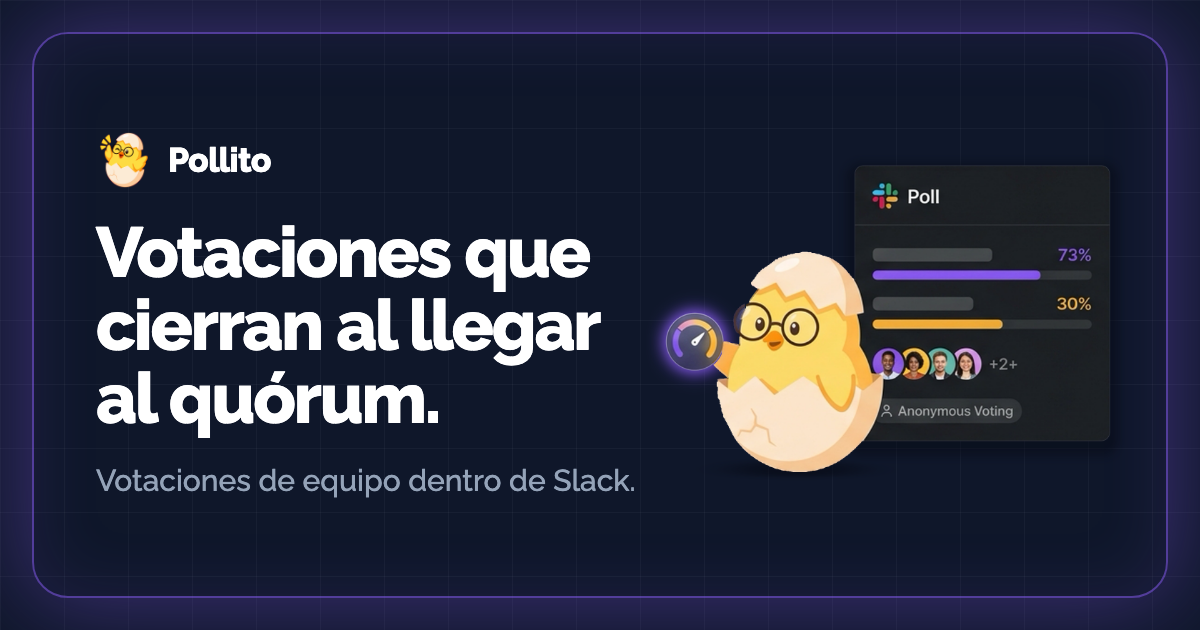
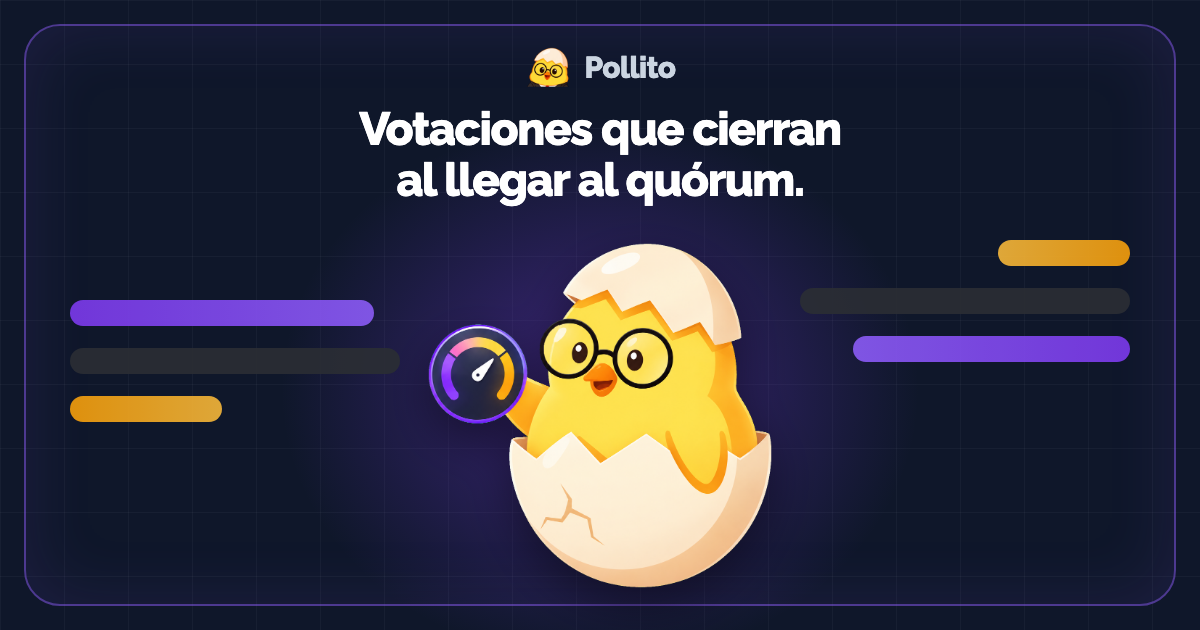
fix(seo): redesign the Open Graph image to survive Slack's square crop
Slack shows the image as a square thumbnail cropped from the centre, which
cut the headline. Keep the headline and mascot inside the central 630x630
square, use the sides for decoration only, and bump the image URL version
so link previews pick up the new file.

diff --git a/scripts/og/template.html b/scripts/og/template.html
@@ -3,6 +3,9 @@
 <head>
 <meta charset="UTF-8">
 <style>
+  /* Slack and some feeds show this image as a square thumbnail cropped from the centre, so the
+     message and the mascot live inside the central 630x630 square (x 285 to 915). The chips on
+     the bars on the sides are decoration for the wide card. */
   @import url('https://fonts.googleapis.com/css2?family=Raleway:wght@500;800&display=swap');
   * { box-sizing: border-box; margin: 0; }
   html, body { width: 1200px; height: 630px; overflow: hidden; }
@@ -10,34 +13,35 @@
     font-family: 'Raleway', -apple-system, BlinkMacSystemFont, 'Segoe UI', sans-serif;
     background-color: #0f172a;
     background-image:
+      radial-gradient(ellipse 38% 62% at 50% 62%, rgba(124,58,237,0.42), transparent 70%),
       linear-gradient(rgba(255,255,255,0.035) 1px, transparent 1px),
       linear-gradient(90deg, rgba(255,255,255,0.035) 1px, transparent 1px);
-    background-size: 64px 64px;
+    background-size: 100% 100%, 64px 64px, 64px 64px;
     color: #fff;
     position: relative;
   }
-  .frame {
-    position: absolute; inset: 32px;
-    border-radius: 36px;
-    border: 2px solid rgba(139,92,246,0.55);
-    box-shadow: 0 0 90px 8px rgba(139,92,246,0.35), inset 0 0 70px rgba(139,92,246,0.12);
-  }
-  .copy { position: absolute; left: 96px; top: 0; bottom: 0; width: 560px; display: flex; flex-direction: column; justify-content: center; gap: 28px; }
-  .brand { display: flex; align-items: center; gap: 16px; font-weight: 800; font-size: 34px; letter-spacing: -0.02em; }
-  .brand img { width: 56px; height: 56px; }
-  h1 { font-size: 70px; line-height: 1.04; font-weight: 800; letter-spacing: -0.03em; text-wrap: balance; }
-  p { font-size: 30px; font-weight: 500; color: #94a3b8; }
-  .art { position: absolute; right: 64px; top: 50%; transform: translateY(-50%); width: 500px; }
-  .art img { width: 100%; display: block; }
+  .frame { position: absolute; inset: 24px; border-radius: 36px; border: 2px solid rgba(139,92,246,0.5); box-shadow: inset 0 0 70px rgba(139,92,246,0.12); }
+  .brand { position: absolute; top: 44px; left: 0; right: 0; display: flex; justify-content: center; align-items: center; gap: 14px; font-weight: 800; font-size: 30px; letter-spacing: -0.02em; color: #cbd5e1; }
+  .brand img { width: 46px; height: 46px; }
+  h1 { position: absolute; top: 104px; left: 0; right: 0; text-align: center; font-size: {{SIZE}}px; line-height: 1.1; font-weight: 800; letter-spacing: -0.03em; }
+  .mascot { position: absolute; left: 50%; bottom: 34px; width: 360px; transform: translateX(-50%); filter: drop-shadow(0 18px 24px rgba(0,0,0,0.45)); }
+  .bars { position: absolute; display: grid; gap: 22px; width: 330px; opacity: 0.9; }
+  .bars.left { left: 70px; top: 300px; }
+  .bars.right { right: 70px; top: 240px; justify-items: end; }
+  .bar { height: 26px; border-radius: 13px; }
+  .bar.p { background: linear-gradient(90deg,#7c3aed,#8b5cf6); }
+  .bar.a { background: linear-gradient(90deg,#f59e0b,#f5b73b); }
+  .bar.g { background: #2b2e34; }
+  .bars.right .bar.p { background: linear-gradient(270deg,#7c3aed,#8b5cf6); }
+  .bars.right .bar.a { background: linear-gradient(270deg,#f59e0b,#f5b73b); }
 </style>
 </head>
 <body>
   <div class="frame"></div>
-  <div class="copy">
-    <div class="brand"><img src="file://{{ROOT}}/public/assets/plates/pollito-nav-logo.png" alt="">Pollito</div>
-    <h1>{{H1}}</h1>
-    <p>{{SUB}}</p>
-  </div>
-  <div class="art"><img src="file://{{ROOT}}/public/assets/plates/mascot-pollito-stage.png" alt=""></div>
+  <div class="brand"><img src="file://{{ROOT}}/public/assets/plates/pollito-nav-logo.png" alt="">Pollito</div>
+  <h1>{{H1}}</h1>
+  <img class="mascot" src="file://{{ROOT}}/public/assets/plates/mascot-pollito.png" alt="">
+  <div class="bars left" aria-hidden="true"><div class="bar p" style="width:92%"></div><div class="bar g" style="width:100%"></div><div class="bar a" style="width:46%"></div></div>
+  <div class="bars right" aria-hidden="true"><div class="bar a" style="width:40%"></div><div class="bar g" style="width:100%"></div><div class="bar p" style="width:84%"></div></div>
 </body>
 </html>

diff --git a/public/status/index.html b/public/status/index.html
@@ -12,7 +12,7 @@
   <meta property="og:description" content="Live availability, uptime, and recent restarts for Pollito.">
   <meta property="og:type" content="website">
   <meta property="og:url" content="https://pollito.tbelt.online/status/">
-  <meta property="og:image" content="https://pollito.tbelt.online/assets/og/og-en.png">
+  <meta property="og:image" content="https://pollito.tbelt.online/assets/og/og-en.png?v=2">
   <meta property="og:image:width" content="1200">
   <meta property="og:image:height" content="630">
   <meta name="twitter:card" content="summary_large_image">

diff --git a/public/en/index.html b/public/en/index.html
@@ -17,7 +17,7 @@
   <meta property="og:locale" content="en_US">
   <meta property="og:locale:alternate" content="es_LA">
   <meta property="og:site_name" content="Pollito">
-  <meta property="og:image" content="https://pollito.tbelt.online/assets/og/og-en.png">
+  <meta property="og:image" content="https://pollito.tbelt.online/assets/og/og-en.png?v=2">
   <meta property="og:image:type" content="image/png">
   <meta property="og:image:width" content="1200">
   <meta property="og:image:height" content="630">

diff --git a/public/en/privacy.html b/public/en/privacy.html
@@ -17,7 +17,7 @@
   <meta property="og:locale" content="en_US">
   <meta property="og:locale:alternate" content="es_LA">
   <meta property="og:site_name" content="Pollito">
-  <meta property="og:image" content="https://pollito.tbelt.online/assets/og/og-en.png">
+  <meta property="og:image" content="https://pollito.tbelt.online/assets/og/og-en.png?v=2">
   <meta property="og:image:type" content="image/png">
   <meta property="og:image:width" content="1200">
   <meta property="og:image:height" content="630">

diff --git a/public/en/support.html b/public/en/support.html
@@ -17,7 +17,7 @@
   <meta property="og:locale" content="en_US">
   <meta property="og:locale:alternate" content="es_LA">
   <meta property="og:site_name" content="Pollito">
-  <meta property="og:image" content="https://pollito.tbelt.online/assets/og/og-en.png">
+  <meta property="og:image" content="https://pollito.tbelt.online/assets/og/og-en.png?v=2">
   <meta property="og:image:type" content="image/png">
   <meta property="og:image:width" content="1200">
   <meta property="og:image:height" content="630">

diff --git a/public/en/terms.html b/public/en/terms.html
@@ -17,7 +17,7 @@
   <meta property="og:locale" content="en_US">
   <meta property="og:locale:alternate" content="es_LA">
   <meta property="og:site_name" content="Pollito">
-  <meta property="og:image" content="https://pollito.tbelt.online/assets/og/og-en.png">
+  <meta property="og:image" content="https://pollito.tbelt.online/assets/og/og-en.png?v=2">
   <meta property="og:image:type" content="image/png">
   <meta property="og:image:width" content="1200">
   <meta property="og:image:height" content="630">

diff --git a/public/es/index.html b/public/es/index.html
@@ -17,7 +17,7 @@
   <meta property="og:locale" content="es_LA">
   <meta property="og:locale:alternate" content="en_US">
   <meta property="og:site_name" content="Pollito">
-  <meta property="og:image" content="https://pollito.tbelt.online/assets/og/og-es.png">
+  <meta property="og:image" content="https://pollito.tbelt.online/assets/og/og-es.png?v=2">
   <meta property="og:image:type" content="image/png">
   <meta property="og:image:width" content="1200">
   <meta property="og:image:height" content="630">

diff --git a/public/es/privacy.html b/public/es/privacy.html
@@ -17,7 +17,7 @@
   <meta property="og:locale" content="es_LA">
   <meta property="og:locale:alternate" content="en_US">
   <meta property="og:site_name" content="Pollito">
-  <meta property="og:image" content="https://pollito.tbelt.online/assets/og/og-es.png">
+  <meta property="og:image" content="https://pollito.tbelt.online/assets/og/og-es.png?v=2">
   <meta property="og:image:type" content="image/png">
   <meta property="og:image:width" content="1200">
   <meta property="og:image:height" content="630">

diff --git a/public/es/support.html b/public/es/support.html
@@ -17,7 +17,7 @@
   <meta property="og:locale" content="es_LA">
   <meta property="og:locale:alternate" content="en_US">
   <meta property="og:site_name" content="Pollito">
-  <meta property="og:image" content="https://pollito.tbelt.online/assets/og/og-es.png">
+  <meta property="og:image" content="https://pollito.tbelt.online/assets/og/og-es.png?v=2">
   <meta property="og:image:type" content="image/png">
   <meta property="og:image:width" content="1200">
   <meta property="og:image:height" content="630">

diff --git a/public/es/terms.html b/public/es/terms.html
@@ -17,7 +17,7 @@
   <meta property="og:locale" content="es_LA">
   <meta property="og:locale:alternate" content="en_US">
   <meta property="og:site_name" content="Pollito">
-  <meta property="og:image" content="https://pollito.tbelt.online/assets/og/og-es.png">
+  <meta property="og:image" content="https://pollito.tbelt.online/assets/og/og-es.png?v=2">
   <meta property="og:image:type" content="image/png">
   <meta property="og:image:width" content="1200">
   <meta property="og:image:height" content="630">

diff --git a/public/index.html b/public/index.html
@@ -17,7 +17,7 @@
   <meta property="og:locale" content="en_US">
   <meta property="og:locale:alternate" content="es_LA">
   <meta property="og:site_name" content="Pollito">
-  <meta property="og:image" content="https://pollito.tbelt.online/assets/og/og-en.png">
+  <meta property="og:image" content="https://pollito.tbelt.online/assets/og/og-en.png?v=2">
   <meta property="og:image:type" content="image/png">
   <meta property="og:image:width" content="1200">
   <meta property="og:image:height" content="630">

diff --git a/public/privacy.html b/public/privacy.html
@@ -17,7 +17,7 @@
   <meta property="og:locale" content="en_US">
   <meta property="og:locale:alternate" content="es_LA">
   <meta property="og:site_name" content="Pollito">
-  <meta property="og:image" content="https://pollito.tbelt.online/assets/og/og-en.png">
+  <meta property="og:image" content="https://pollito.tbelt.online/assets/og/og-en.png?v=2">
   <meta property="og:image:type" content="image/png">
   <meta property="og:image:width" content="1200">
   <meta property="og:image:height" content="630">
